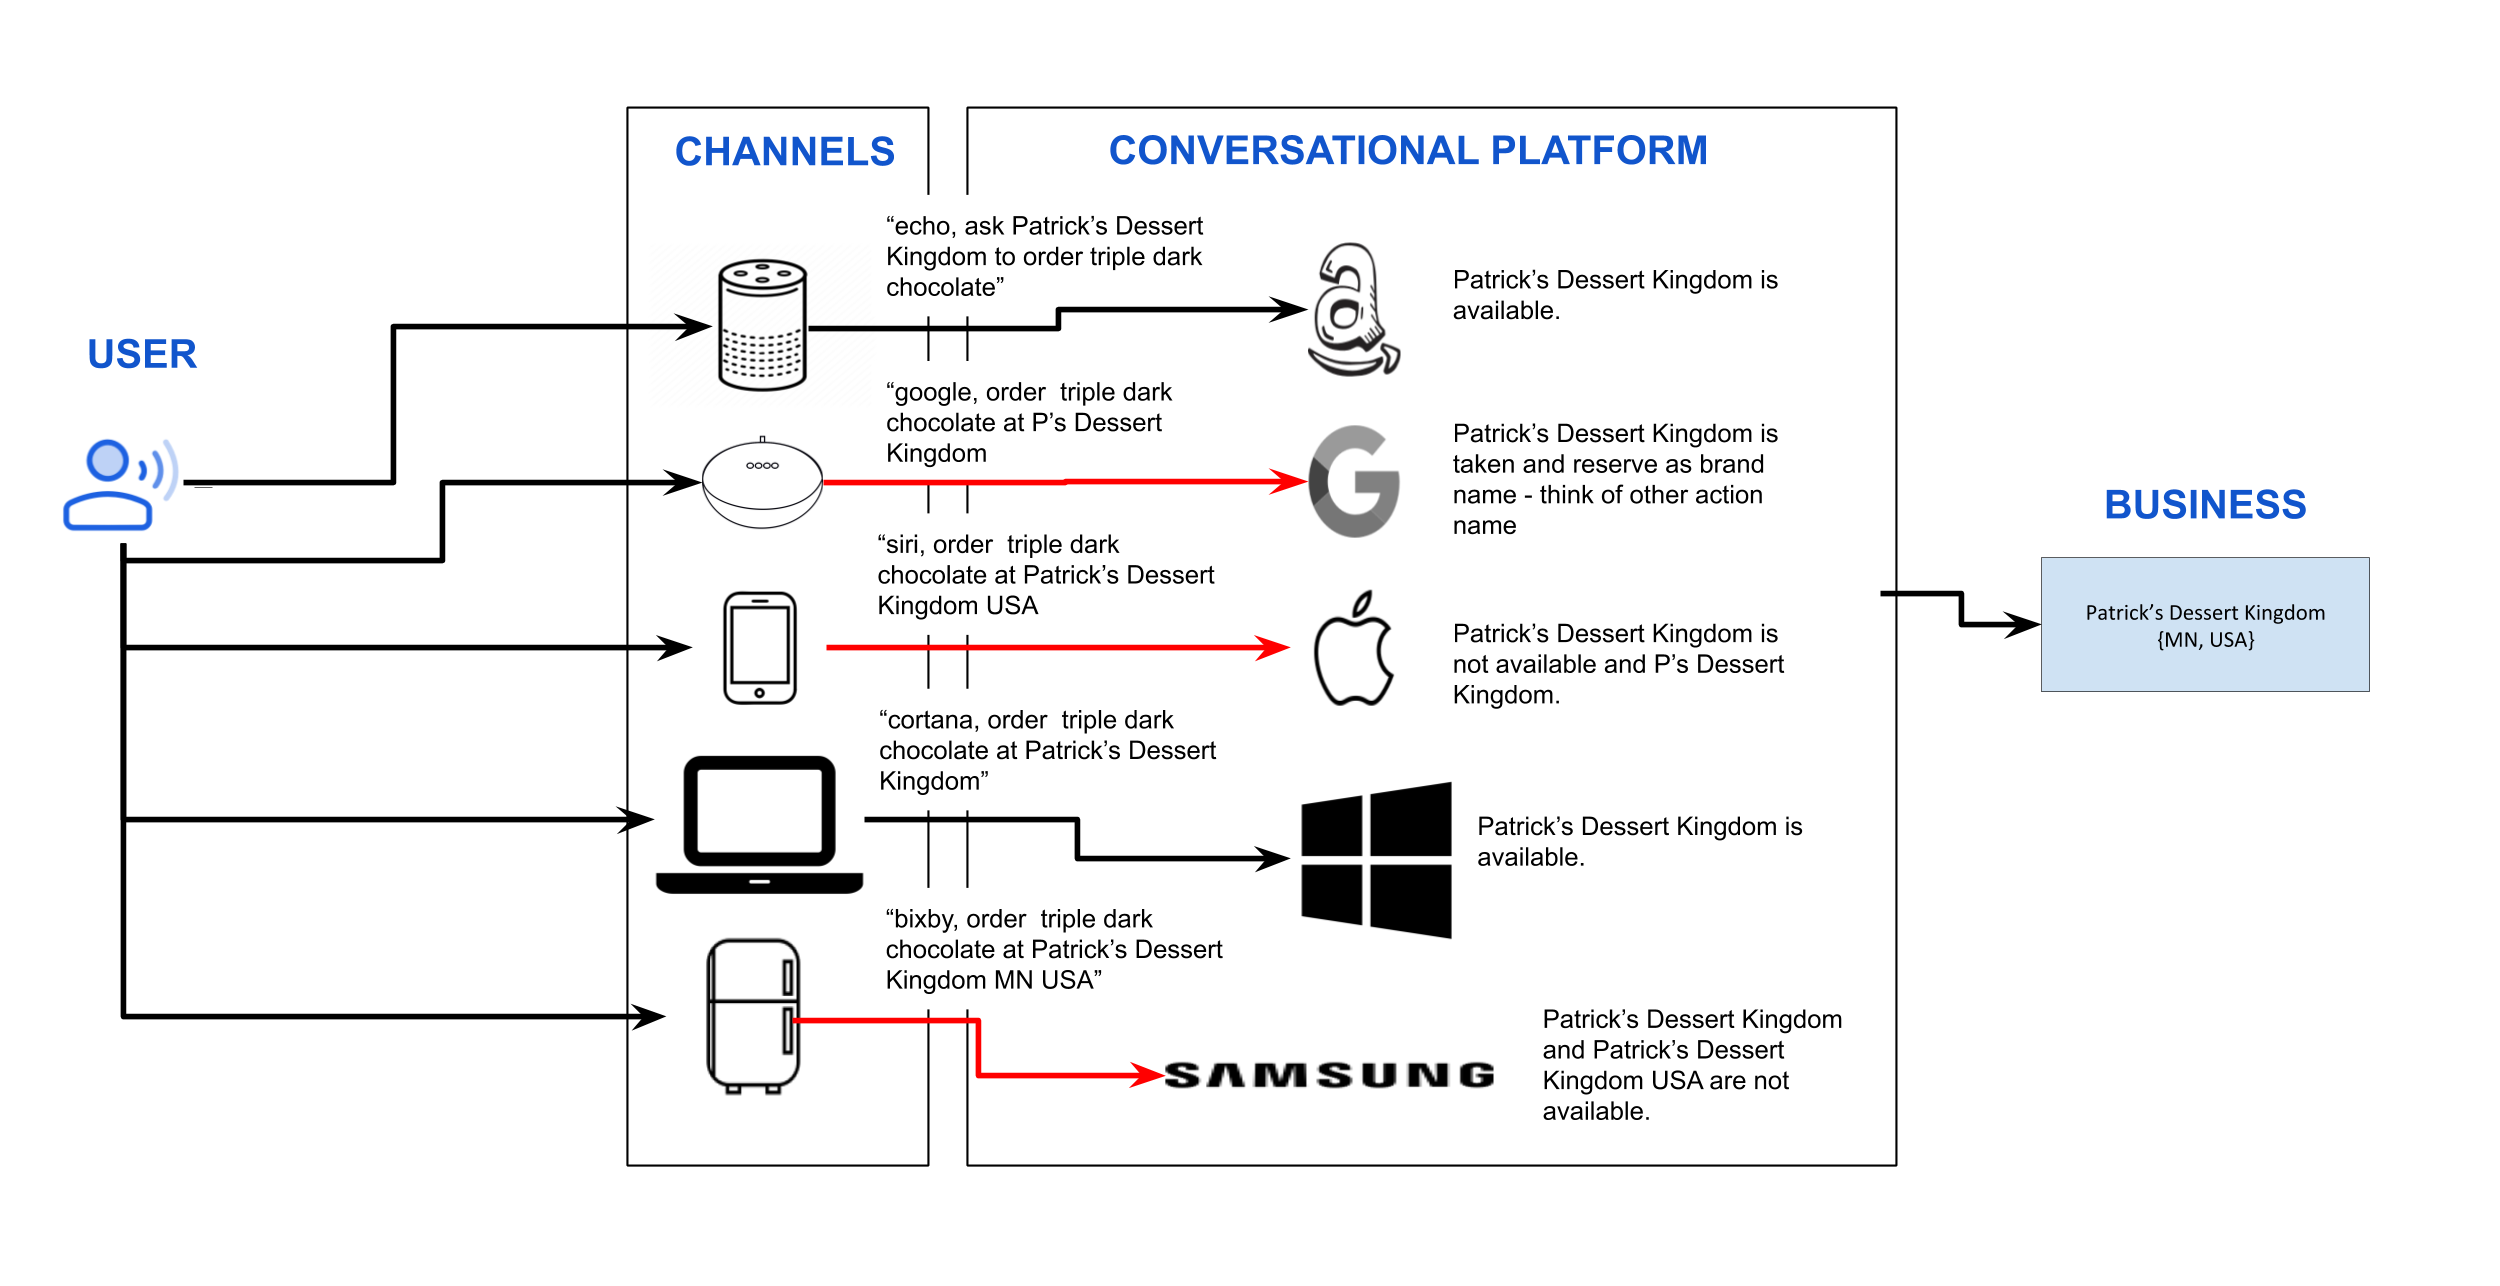
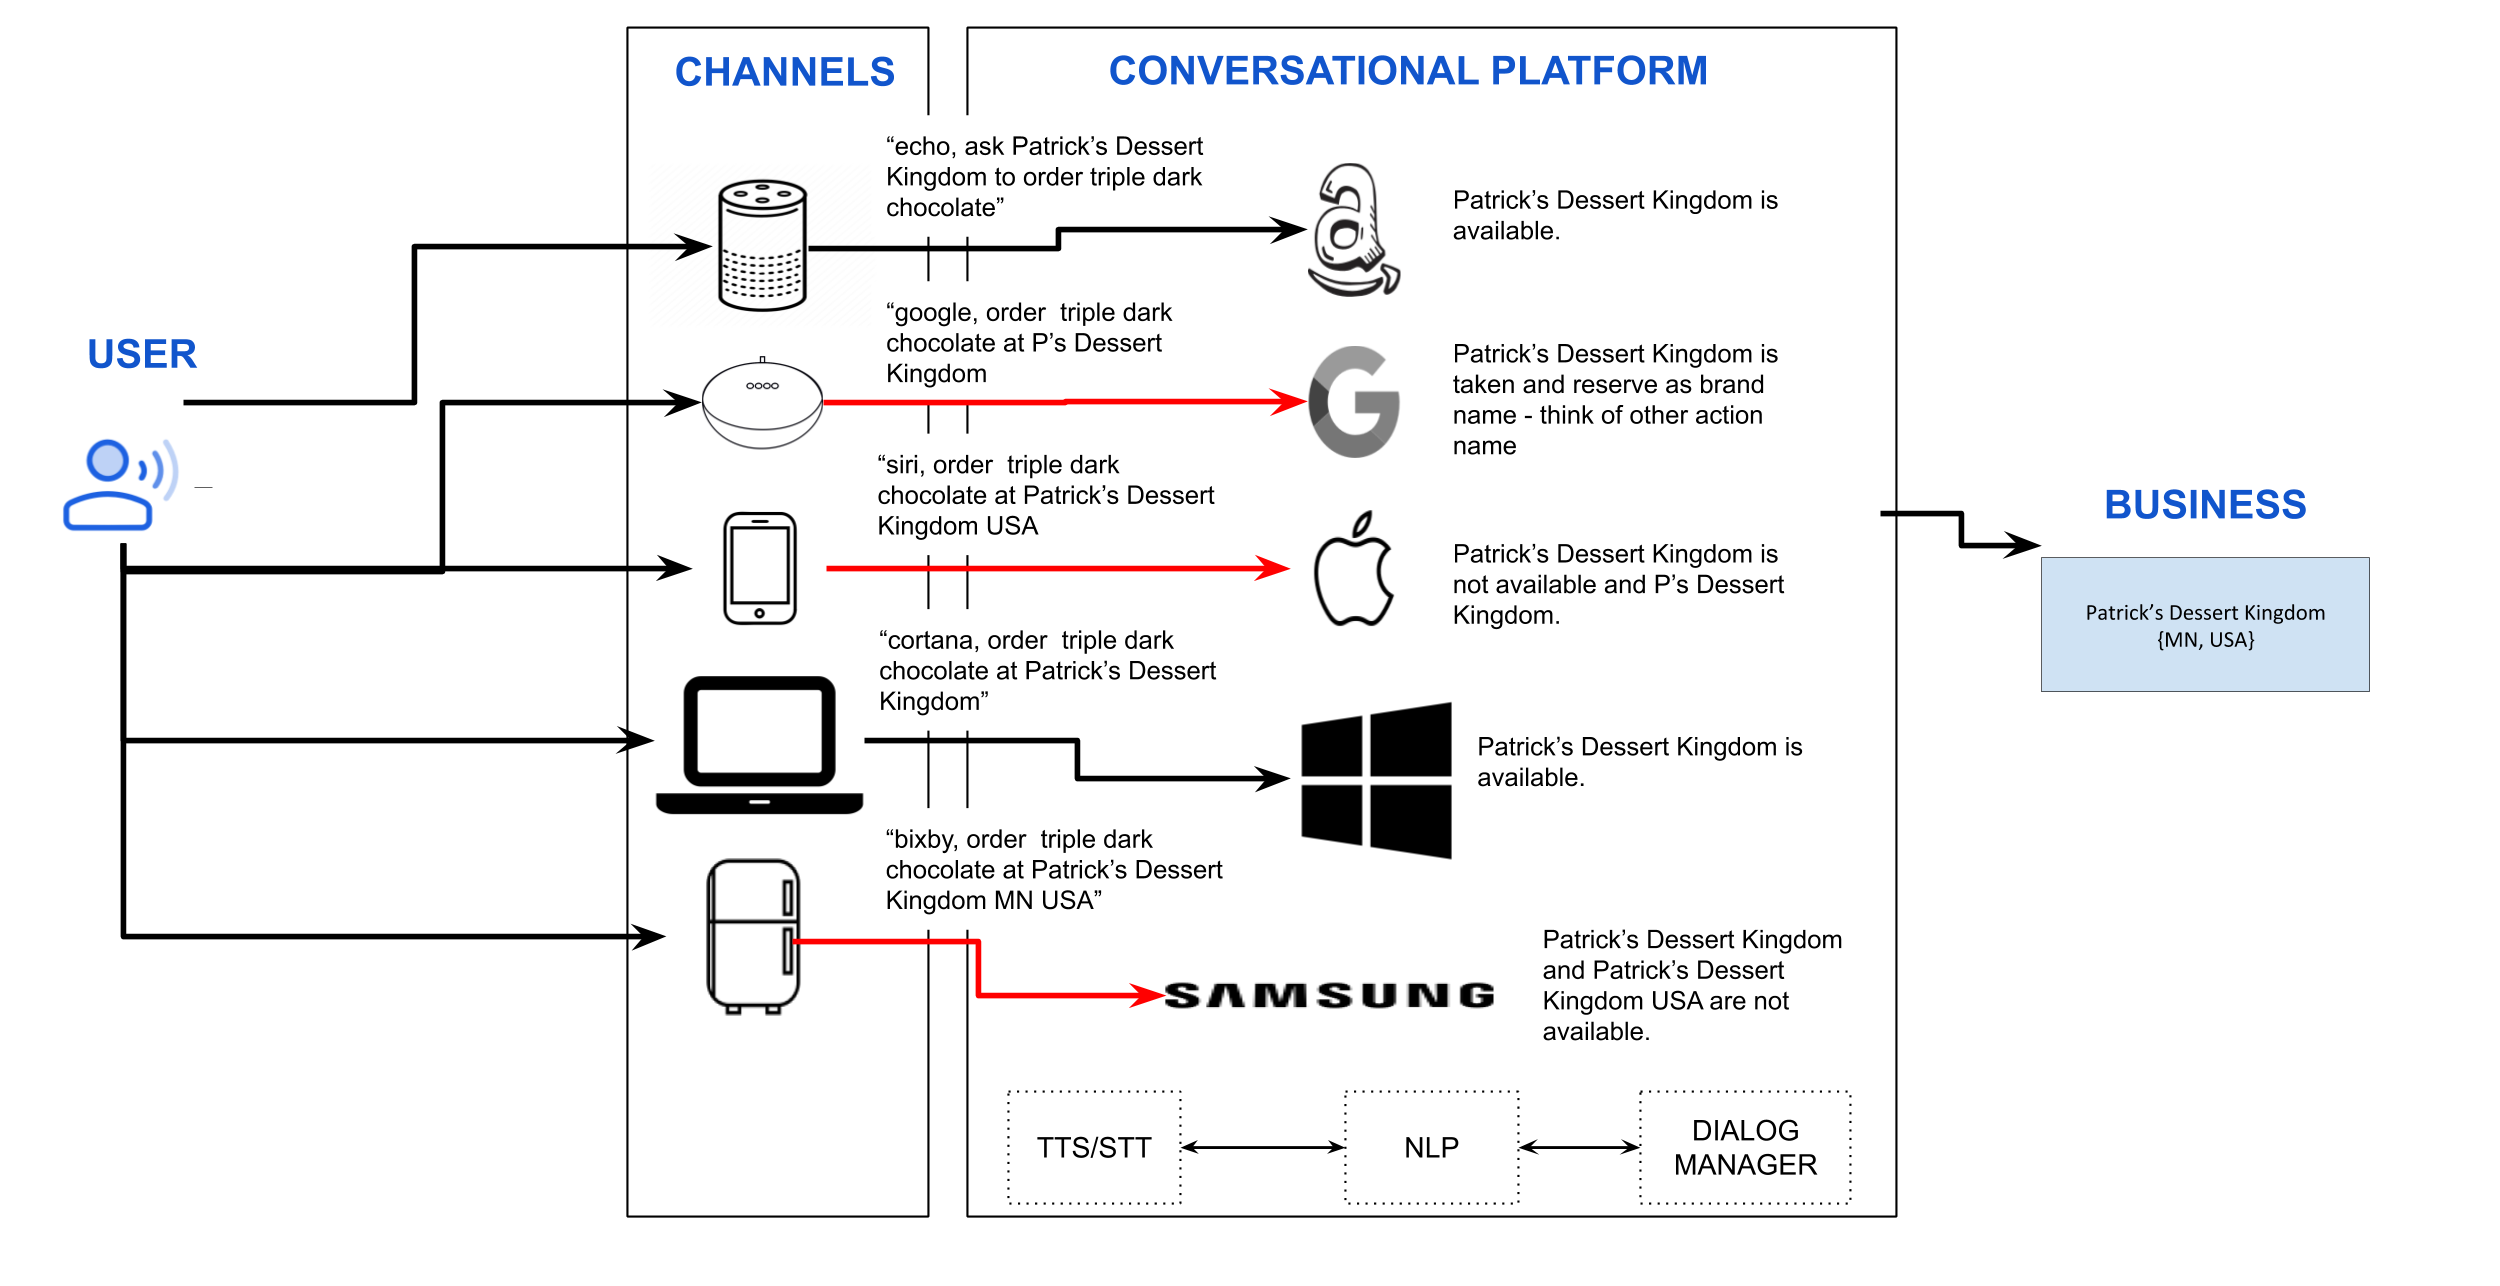
added more VRS context

diff --git a/components/voice_registry_system.md b/components/voice_registry_system.md
@@ -22,17 +22,29 @@ This is a problem for the business and users. Users and businesses will not have
 
 ![](component_assets/vrs_problem_statement.png?raw=true "Fig. 1 - VRS Problem Statement")
 
+In the diagram above, the use-case scenario is Patrick's Dessert Kingdom is a business that needs to be multiple conversational platforms such as Amazon, Google, etc. The company is most popularly known for its name as "Patrick's Dessert Kingdom."  The business wants the explicit command for their customer to what they are known for.  Fortunately, it is approved and available in Amazon and Microsoft but not on other conversational platforms.
 
-### Architecture Options
+### Voice Registry System
 The core solution approach to the problem is to stand up a neutral component that is not tightly associated with any of the conversational platforms to avoid any influence and bias. The VRS component will serve as the neutral party and address the balance and fairness for the user and businesses. 
 
+The primary role and responsibility of the VRS are to resolve the explicit invocation received by the conversational platforms. The resolution will include taking into account the location of the origin of the place of the utterance. The VRS will store the business's preferred configuration that can be applied to all various conversation platforms.
 
+### Architecture Options
 Like any other problem, there are multiple ways to get to the ideal solution. The purpose of this is to look at options and ratify with the committee the best path forward.
 
 
 ## Option 1
 
+![](component_assets/vrs_proposed_solution_1.png?raw=true "Fig. 2 - VRS Proposed Solution 1")
+
 
 ## Option 2
 
+![](component_assets/vrs_proposed_solution_2.png?raw=true "Fig. 2 - VRS Proposed Solution 2")
 
+
+## Pros and Cons
+| Options     | Pros        | Cons   |
+| :---        | :---        | :---   |
+| Option 1    | - VRS does not have to implement NLU capability - VRS has single responsibility of registry only | - Identifying vrs type is implemented in the proprietary conversational platform, which can cause inconsistency. | 
+| Option 2    | - Identifying vrs type is implemented in one area and consistent across the different conversational platform.         | - VRS has to implement NLU capability. |
